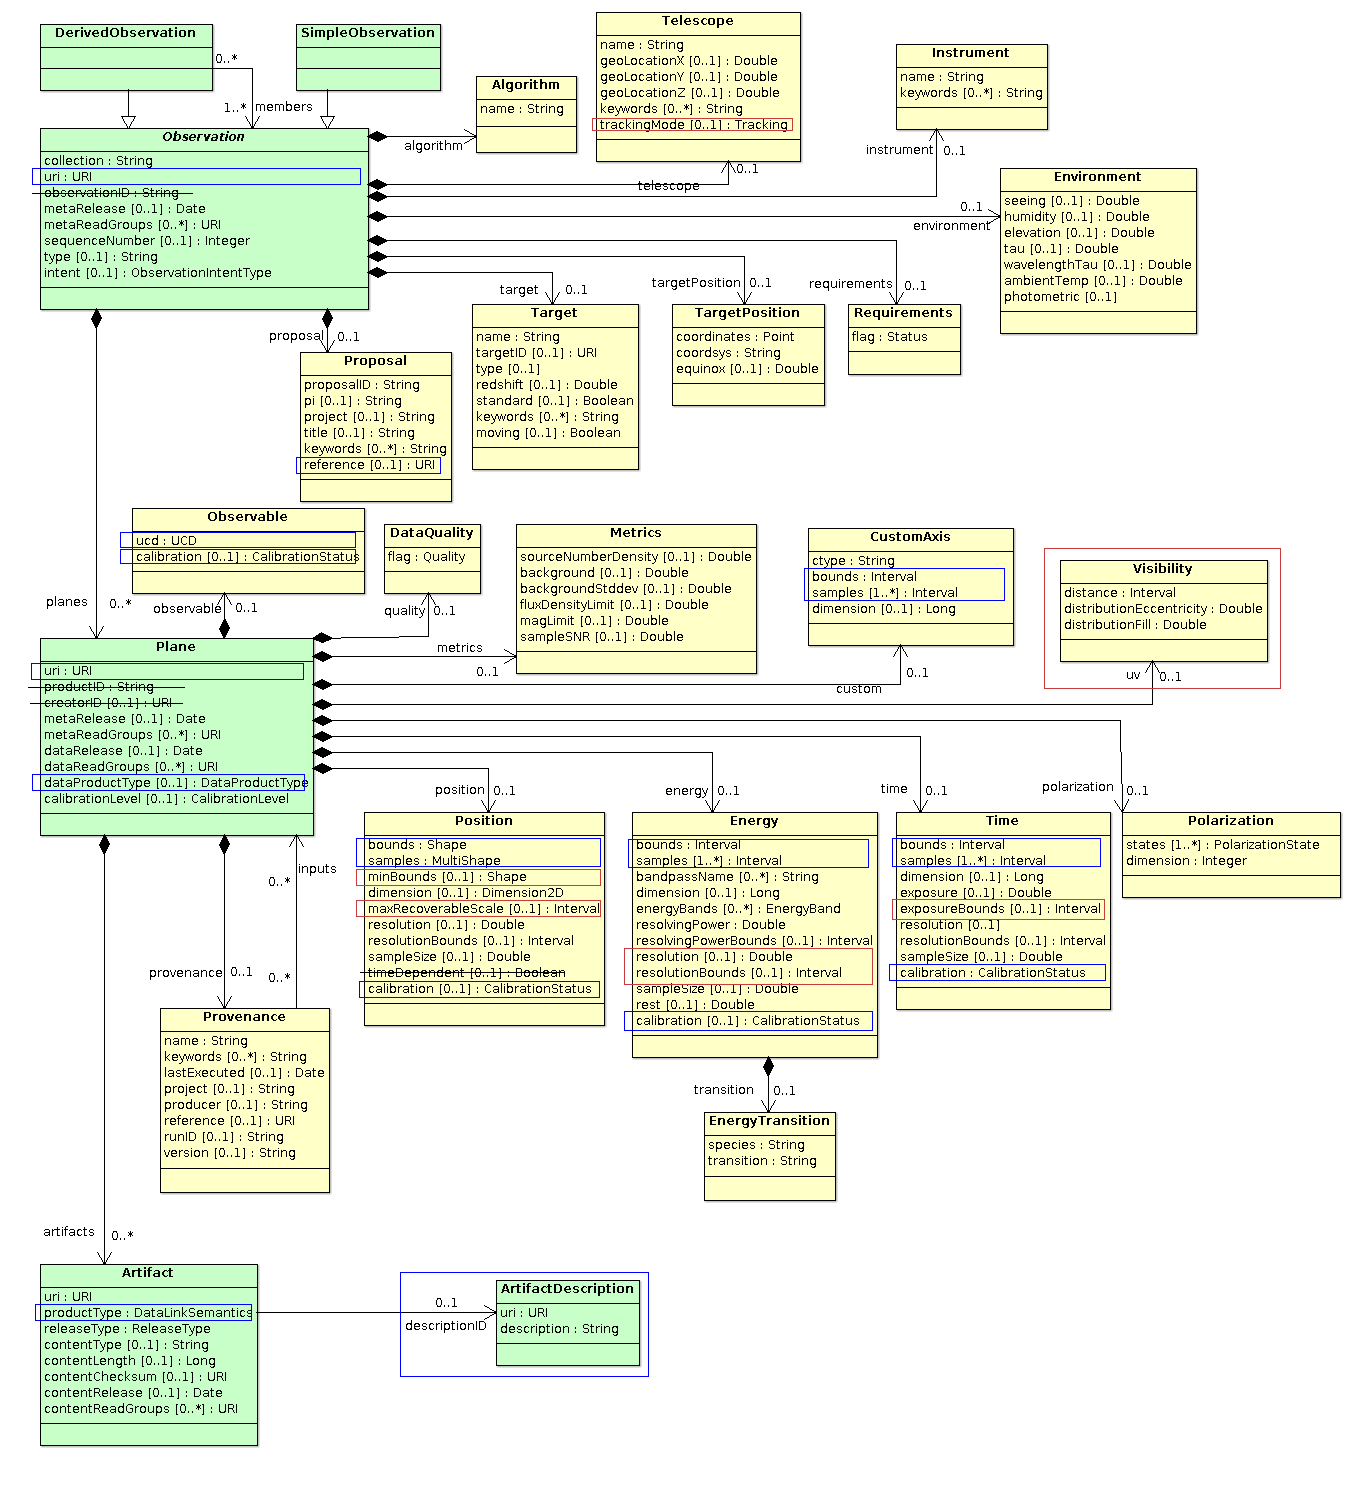
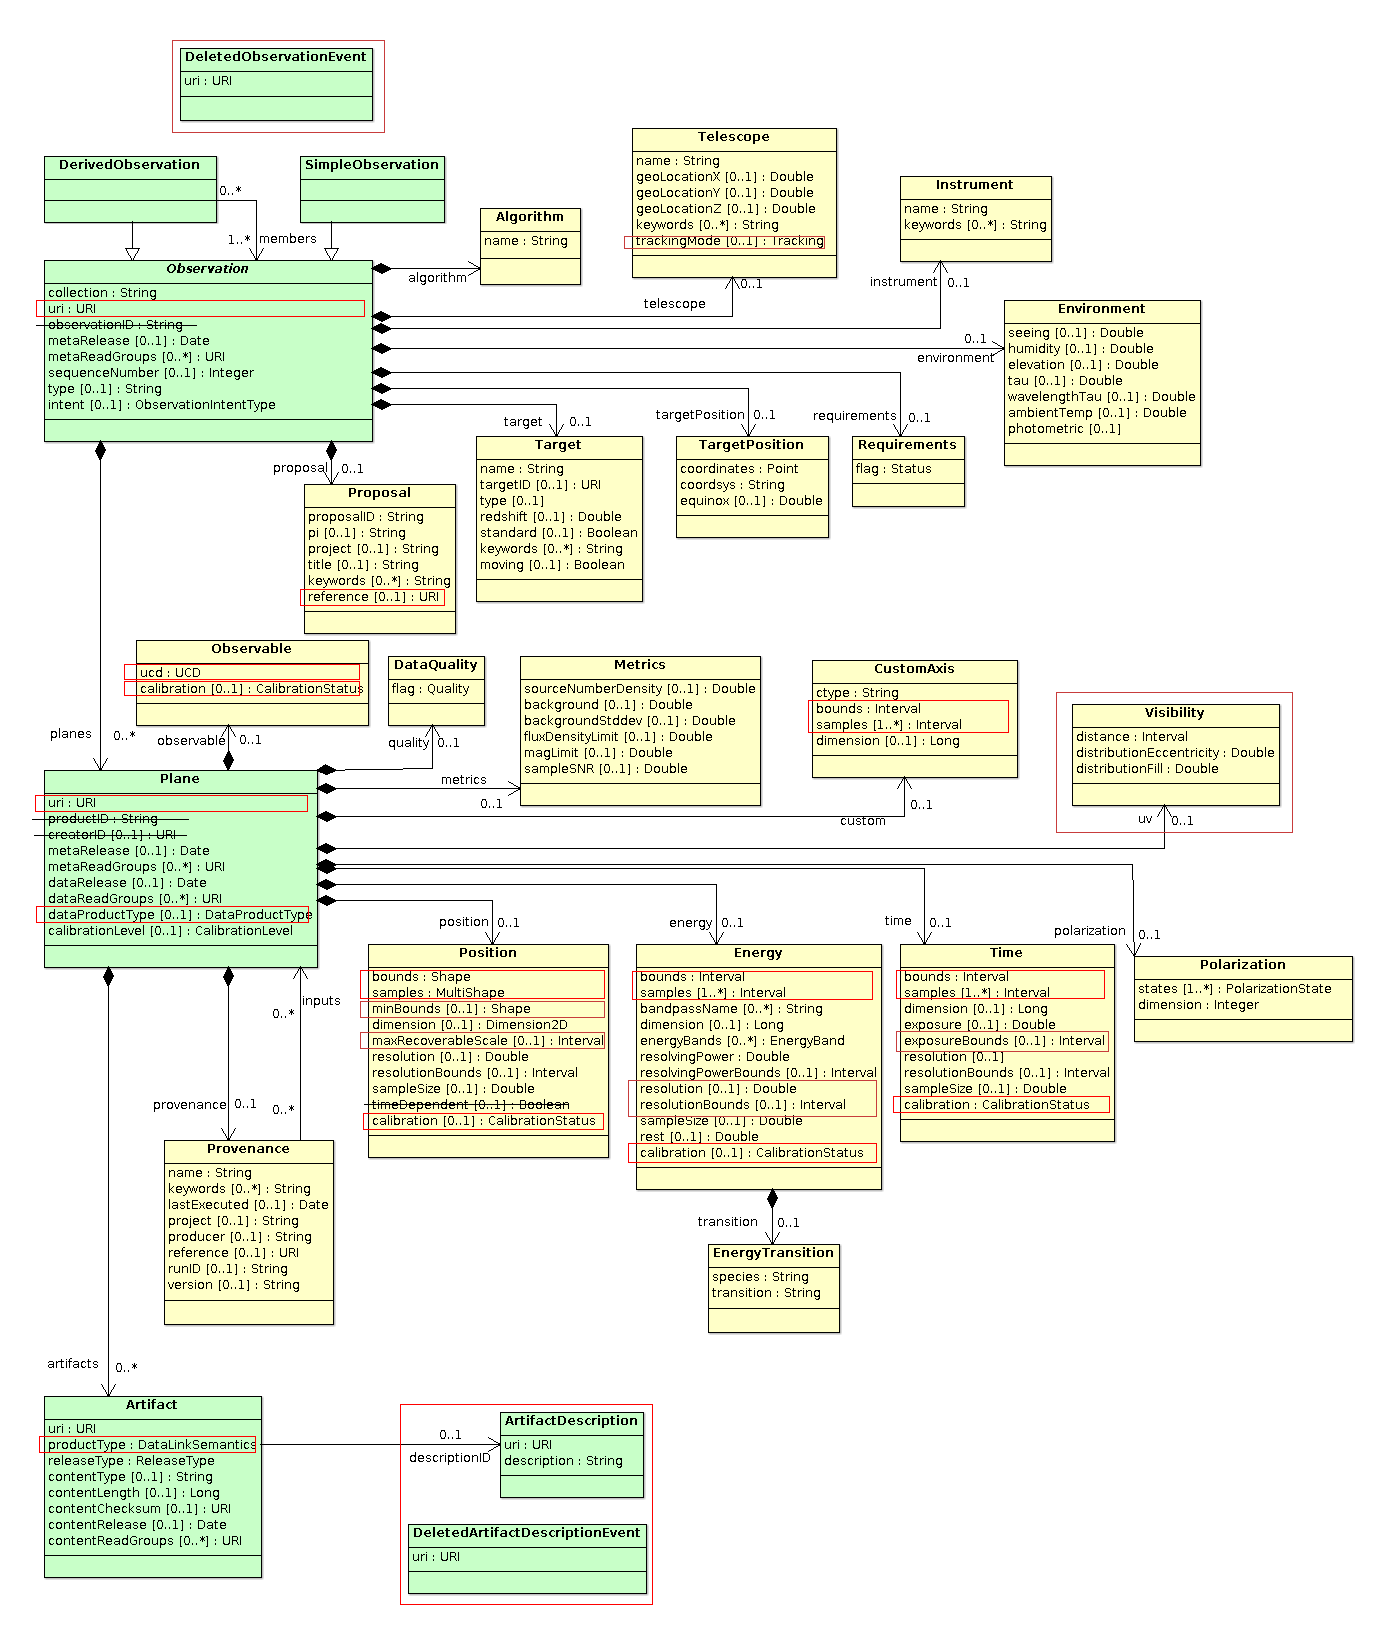
add deleted events and workload breakdown support added classes: DeletedObservationEvent and DeletedArtifactDescriptionEvent added uriBucket field to Observation and Artiafct to support validation use cases where subdividing the workload is necessary at scale

diff --git a/generated.tex b/generated.tex
@@ -46,6 +46,12 @@
       \textbf{multiplicity: 1} \newline
       an identifier that resolves to the storage location of the artifact
 
+    \subsubsection{Artifact.uriBucket}
+      \textbf{vodml-id: Artifact.uriBucket} \newline
+      \textbf{type: \hyperref[sect:ivoa]{ivoa:string}} \newline
+      \textbf{multiplicity: 1} \newline
+      short string of hexadecimal digits generated from the uri; the value is the first three characters of the hexadecimal representation of SHA-1 of the UTF-8 encoded URI value
+
     \subsubsection{Artifact.productType}
       \textbf{vodml-id: Artifact.productType} \newline
       \textbf{type: \hyperref[sect:DataLinkSemantics]{caom2:DataLinkSemantics}} \newline
@@ -275,6 +281,26 @@
       \textbf{type: \hyperref[sect:Quality]{caom2:Quality}} \newline
       \textbf{multiplicity: 1} \newline
       flag indicating the data quality
+
+  \subsection{DeletedArtifactDescriptionEvent}
+  \label{sect:DeletedArtifactDescriptionEvent}
+    an event signifiying that a previously persisted ArtifactDescription was deleted; this event can be synchronized to propagate deletions; the Entity.id of the event is equal to the Entity.id of the deleted observation and this identifier is used when performing deletions
+
+    \subsubsection{DeletedArtifactDescriptionEvent.uri}
+      \textbf{vodml-id: DeletedArtifactDescriptionEvent.uri} \newline
+      \textbf{type: \hyperref[sect:ivoa]{ivoa:anyURI}} \newline
+      \textbf{multiplicity: 1} \newline
+      The logical identifier of the ArtifactDescription: the ArtifactDescription.uri value; this is for informational purposes only
+
+  \subsection{DeletedObservationEvent}
+  \label{sect:DeletedObservationEvent}
+    an event signifiying that a previously persisted Observation was deleted; this event can be synchronized to propagate deletions; the Entity.id of the event is equal to the Entity.id of the deleted observation and this identifier is used when performing deletions
+
+    \subsubsection{DeletedObservationEvent.uri}
+      \textbf{vodml-id: DeletedObservationEvent.uri} \newline
+      \textbf{type: \hyperref[sect:ivoa]{ivoa:anyURI}} \newline
+      \textbf{multiplicity: 1} \newline
+      The logical identifier of the Observation: the Observation.uri value; this is for informational purposes only
 
   \subsection{DerivedObservation}
   \label{sect:DerivedObservation}
@@ -529,6 +555,12 @@
       \textbf{type: \hyperref[sect:ivoa]{ivoa:anyURI}} \newline
       \textbf{multiplicity: 1} \newline
       unique logical identifier for this observation (NEW in CAOM-2.5)
+
+    \subsubsection{Observation.uriBucket}
+      \textbf{vodml-id: Observation.uriBucket} \newline
+      \textbf{type: \hyperref[sect:ivoa]{ivoa:string}} \newline
+      \textbf{multiplicity: 1} \newline
+      short string of hexadecimal digits generated from the uri; the value is the first three characters of the hexadecimal representation of SHA-1 of the UTF-8 encoded URI value
 
     \subsubsection{Observation.metaRelease}
       \textbf{vodml-id: Observation.metaRelease} \newline

diff --git a/CAOM.tex b/CAOM.tex
@@ -123,7 +123,9 @@ any corruption or incompleteless (details elsewhere ???).
 
 An Observation is the result of some activity to create data. Data acquisition by a 
 telescope creates a SimpleObservation, usually with one Plane describing the raw 
-data.
+data. Processing that creates a new observation (e.g. by combining mutliple independent
+observations into a single product) creates a DerivedObservation with a set of member
+observations. 
 
 \subsection{Plane}
 
@@ -137,6 +139,14 @@ signature change the calibration level of the plane.
 
 An Artifact holds a reference to an externally stored resource: a file, a
 database object (schema or table), a collection of files (directory), etc.
+
+\subsection{ArtifactDescription}
+
+An ArtifactDesciption is a human-readable description of an artifact. These
+descriptions are intended to be shared across many artifacts curated by a single
+operator; each artifact contains an optional reference to a description. The
+primary intended use of these descritpions is to populate the description field
+in a DataLink links response.
 
 \subsection{Part}
 
@@ -152,6 +162,22 @@ Note: Part is not shown in the UML diagrams. TBD: keep, deprecate, or remove?
 A Chunk describes a single data array using WCS (World Coordinate System) concepts. 
 
 Note: Chunk is not shown in the UML diagrams. TBD: keep, deprecate or remove?
+
+\subsection{DeletedObservationEvent}
+
+Observation(s) are designed to support metadata sharing (synchronisation of instances
+from a source site to a destination site). In some cases, observations are deleted at the 
+source site; in that case, the source site would create a DeletedObservationEvent with the same 
+entity identifier (Entity.id) and logical identifier (Observation.uri) so that other sites can
+synchronise the event and perform the correct deletion locally.
+
+\subsection{DeletedArtifactDescriptionEvent}
+
+ArtifactDescription(s) are designed to support metadata sharing (synchronisation of instances
+from a source site to a destination site). In some cases, descriptions are deleted at the 
+source site; in that case, the source site would create a DeletedArtifactDescriptionEvent with 
+the same entity identifier (Entity.id) and logical identifier (ArtifactDescription.uri) so that 
+other sites can synchronise the event and perform the correct deletion locally.
 
 \subsection{Data Types}
 Some of the classes in the model are intended to be used as data types (e.g. columns
